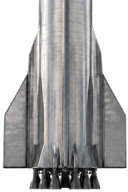
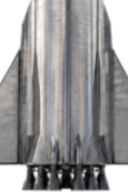
feat: update rocket cell size and optimize launch pad rendering for improved performance

diff --git a/src/game/scenes/flight/FlightSceneEnvironment.js b/src/game/scenes/flight/FlightSceneEnvironment.js
@@ -1,7 +1,6 @@
 import Phaser from "phaser";
 import { FLIGHT_WORLD } from "../../systems/FlightSimulator.js";
 import {
-  LAUNCH_PAD_COLORS,
   STAR_COUNT,
   VISUAL_TARGET_ORBIT_OFFSET,
 } from "./FlightSceneConstants.js";
@@ -159,30 +158,8 @@ export const flightSceneEnvironmentMethods = {
   },
 
   buildLaunchPad() {
-    const padY = -FLIGHT_WORLD.planetRadius;
-
-    this.pad.add([
-      this.add.rectangle(0, padY + 54, 140, 14, LAUNCH_PAD_COLORS.baseDark, 0.95),
-      this.add.rectangle(0, padY + 42, 200, 16, LAUNCH_PAD_COLORS.baseMed, 0.94),
-      this.add.rectangle(0, padY + 31, 260, 6, LAUNCH_PAD_COLORS.baseLight, 0.85),
-      this.add.rectangle(0, padY + 37, 60, 6, LAUNCH_PAD_COLORS.baseDark, 0.8),
-      this.add.rectangle(0, padY + 22, 34, 12, LAUNCH_PAD_COLORS.highlight, 0.5),
-    ]);
-
-    this.launchTower.add([
-      this.add.rectangle(-66, padY - 20, 28, 150, LAUNCH_PAD_COLORS.baseMed, 0.98),
-      this.add.rectangle(-58, padY - 20, 4, 140, LAUNCH_PAD_COLORS.baseDark, 0.6),
-      this.add.rectangle(-66, padY + 40, 28, 10, LAUNCH_PAD_COLORS.accent, 0.9),
-      this.add.rectangle(-66, padY - 110, 4, 40, LAUNCH_PAD_COLORS.baseLight, 0.7),
-      this.add.rectangle(-40, padY - 60, 60, 12, LAUNCH_PAD_COLORS.baseMed, 0.85),
-      this.add.rectangle(-34, padY - 15, 70, 10, LAUNCH_PAD_COLORS.baseLight, 0.8),
-      this.add.rectangle(-12, padY - 60, 8, 26, LAUNCH_PAD_COLORS.baseDark, 0.9),
-      this.add.rectangle(-2, padY - 15, 10, 22, LAUNCH_PAD_COLORS.baseDark, 0.9),
-      this.add.circle(-66, padY - 132, 4, LAUNCH_PAD_COLORS.lightWarn, 1),
-      this.add.circle(-66, padY - 80, 5, LAUNCH_PAD_COLORS.lightBlink, 0.9),
-      this.add.circle(-66, padY - 30, 4, LAUNCH_PAD_COLORS.lightBlink, 0.8),
-      this.add.circle(-12, padY - 75, 3, LAUNCH_PAD_COLORS.lightWarn, 0.9),
-    ]);
+    this.pad.removeAll(true);
+    this.launchTower.removeAll(true);
   },
 
   drawLaunchBackdrop() {
@@ -191,42 +168,6 @@ export const flightSceneEnvironmentMethods = {
 
   drawLaunchGround() {
     this.launchGround.clear();
-    const padY = -FLIGHT_WORLD.planetRadius;
-    const topY = padY + 6;
-    const midY = padY + 44;
-    const lowerY = padY + 760;
-    const halfWidth = 1180;
-    const innerHalfWidth = 620;
-
-    this.launchGround.fillStyle(0x5b7287, 0.96);
-    this.launchGround.fillRect(-halfWidth, topY, halfWidth * 2, lowerY - topY);
-
-    this.launchGround.fillStyle(0x3f5365, 0.9);
-    this.launchGround.beginPath();
-    this.launchGround.moveTo(-halfWidth, lowerY);
-    this.launchGround.lineTo(-innerHalfWidth, midY);
-    this.launchGround.lineTo(innerHalfWidth, midY);
-    this.launchGround.lineTo(halfWidth, lowerY);
-    this.launchGround.closePath();
-    this.launchGround.fillPath();
-
-    this.launchGround.fillStyle(0x263744, 0.2);
-    this.launchGround.fillRect(-halfWidth, padY + 94, halfWidth * 2, lowerY - padY - 94);
-
-    this.launchGround.lineStyle(4, 0xc8d9e5, 0.28);
-    this.launchGround.beginPath();
-    this.launchGround.moveTo(-halfWidth, topY + 2);
-    this.launchGround.lineTo(halfWidth, topY + 2);
-    this.launchGround.strokePath();
-
-    this.launchGround.fillStyle(0x91a7ba, 0.2);
-    this.launchGround.fillRect(-halfWidth, topY + 10, halfWidth * 2, 18);
-    this.launchGround.fillStyle(0x263341, 0.18);
-    this.launchGround.fillRect(-halfWidth, midY + 10, halfWidth * 2, 34);
-    this.launchGround.fillStyle(0x70859a, 0.68);
-    this.launchGround.fillEllipse(0, padY + 52, 250, 20);
-    this.launchGround.fillStyle(0xd9ecf7, 0.16);
-    this.launchGround.fillEllipse(0, padY + 46, 210, 6);
   },
 
   createUiCamera() {

diff --git a/src/game/scenes/flight/FlightSceneRuntime.js b/src/game/scenes/flight/FlightSceneRuntime.js
@@ -549,10 +549,12 @@ export const flightSceneRuntimeMethods = {
     const spaceProgress = Math.max(dayToSpace, mapViewProgress * 0.92);
     const orbitOverlayProgress = Math.max(overlayProgress, mapViewProgress);
     const planetAlpha = Math.max(
+      0.92,
       Phaser.Math.Linear(0, Phaser.Math.Linear(0.9, 1, planetReveal), curvatureReveal),
       mapViewProgress,
     );
     const atmosphereAlpha = Math.max(
+      0.28,
       Phaser.Math.Linear(0, Phaser.Math.Linear(1, 0.48, dayToSpace), curvatureReveal),
       mapViewProgress * 0.46,
     );
@@ -582,39 +584,7 @@ export const flightSceneRuntimeMethods = {
     this.launchTower.setAlpha(padFade * 0.9 * launchDetailAlpha);
 
     this.launchTowerGlow.clear();
-    if (padFade > 0.05 && launchDetailAlpha > 0.05) {
-      this.launchTowerGlow.fillStyle(
-        0xffa86d,
-        (0.04 + state.throttle * 0.06) * padFade * launchDetailAlpha,
-      );
-      this.launchTowerGlow.fillEllipse(
-        -66,
-        -FLIGHT_WORLD.planetRadius - 116,
-        44,
-        44,
-      );
-      this.launchTowerGlow.fillStyle(0x73f7c0, 0.04 * padFade * launchDetailAlpha);
-      this.launchTowerGlow.fillEllipse(
-        -40,
-        -FLIGHT_WORLD.planetRadius - 8,
-        64,
-        28,
-      );
-    }
-
     this.padGlow.clear();
-    if (
-      state.engineOn &&
-      state.throttle > 0 &&
-      padFade > 0.05 &&
-      launchDetailAlpha > 0.05
-    ) {
-      this.padGlow.fillStyle(
-        0xff9d5c,
-        state.throttle * padFade * launchDetailAlpha * 0.16,
-      );
-      this.padGlow.fillEllipse(0, -FLIGHT_WORLD.planetRadius + 44, 220, 54);
-    }
   },
 
   updateTrail(state) {

diff --git a/src/game/scenes/flight/FlightSceneConstants.js b/src/game/scenes/flight/FlightSceneConstants.js
@@ -1,4 +1,4 @@
-export const ROCKET_CELL_SIZE = 12;
+export const ROCKET_CELL_SIZE = 5;
 export const TRAIL_LIMIT = 180;
 export const STAR_COUNT = 130;
 export const LAUNCH_PRESENTATION_ALTITUDE = 180;
